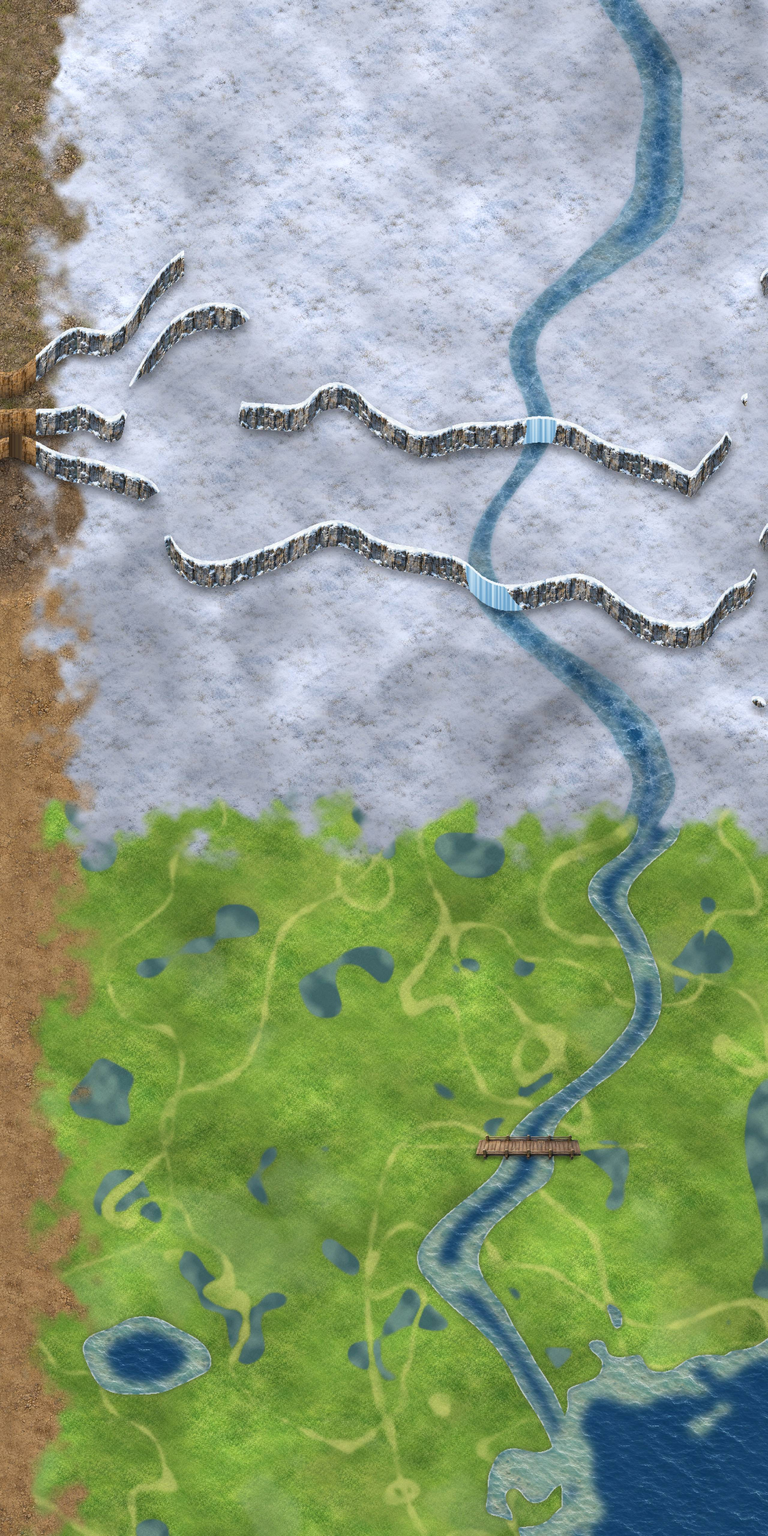
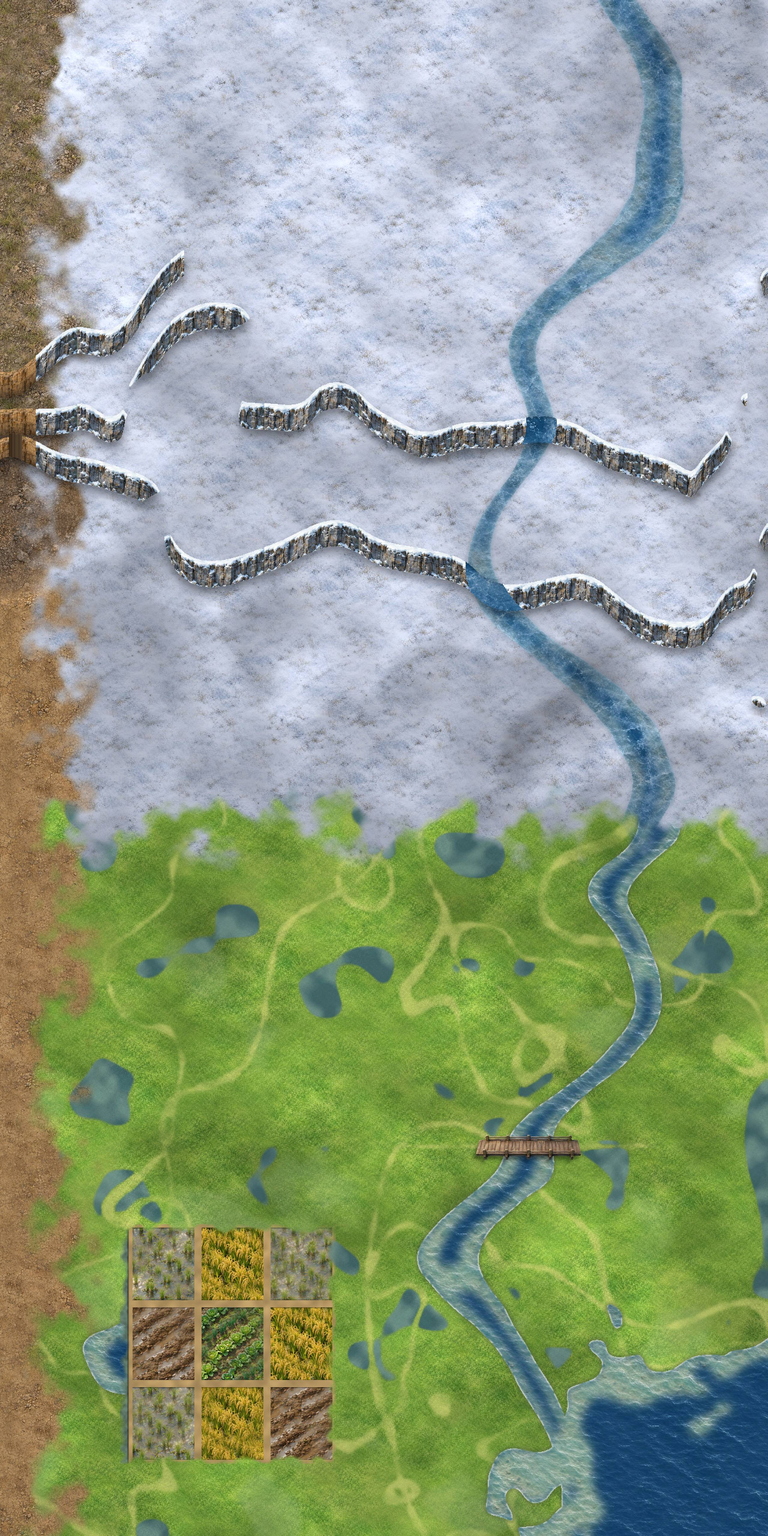
农田区、村落房屋、竹林垂柳水牛，雪原和草地各加一处村落
Claude-Session: https://claude.ai/code/session_011WrGna6yNwTfpmyp4CxMHs

Changed region(s): [[0.1562, 0.7812, 0.4375, 0.9688], [0.5938, 0.3438, 0.6875, 0.4062], [0.6875, 0.25, 0.7188, 0.3125]]

diff --git a/src/main.js b/src/main.js
@@ -127,7 +127,7 @@ function loop(now){
  contact(px,py,16);
  const items=[];
  for(const o of objs){const sx=o.x-cx,sy=o.y-cy;if(sx<-60||sx>VW+60||sy<-10||sy>VH+100)continue;
-  const inx=Math.abs(hero.x-o.x)<o.w*.4,iny=hero.y<o.y-2&&hero.y>o.y-o.h*.9;const fade=/^(broad|pine|spire|bushL|nfir|nbare|nspire|nbush)/.test(o.k);const ta=(fade&&inx&&iny)?.42:1;
+  const inx=Math.abs(hero.x-o.x)<o.w*.4,iny=hero.y<o.y-2&&hero.y>o.y-o.h*.9;const fade=/^(broad|pine|spire|bushL|nfir|nbare|nspire|nbush|fhouse|fshed|fgran|fbamb1|fwillow|fpeach)/.test(o.k);const ta=(fade&&inx&&iny)?.42:1;
   o.a+=(ta-o.a)*Math.min(1,dt*10);
   items.push({y:o.y,f:()=>{c.imageSmoothingEnabled=true;c.globalAlpha=o.a;c.drawImage(IM['s_'+o.k],sx-o.w/2,sy-o.h,o.w,o.h);c.globalAlpha=1}})}
  for(const p of pj){const sx=p.x-cx,sy=p.y-cy;items.push({y:p.y+1,f:()=>{c.strokeStyle='#eadfc2';c.lineWidth=1;c.beginPath();c.moveTo(sx-p.dx*7,sy-9-p.dy*7);c.lineTo(sx,sy-9);c.stroke();c.fillStyle='#9aa0a6';c.fillRect(sx-.7,sy-9.7,1.6,1.4);c.fillStyle='rgba(18,40,20,.25)';c.fillRect(sx-1,sy-1,2,1)}})}

diff --git a/tools/build_mountain.py b/tools/build_mountain.py
@@ -114,9 +114,11 @@ base[ys_[sn],xs2[sn]]=Cs[rows[sn],xs2[sn]%Cs.shape[1]]
 rmk=np.zeros((N,N),np.uint8); rmk[:1480,CW:]=np.load(BUILD+'snow_river.npy').astype(np.uint8)
 rmk=cv2.dilate(rmk,np.ones((1,9),np.uint8)); rmH=np.repeat(np.repeat(rmk,2,0),2,1)
 fw=rmH[ys_,xs2]>0
-icet=tile_big(seamless(load('snow_water.png')),Wd,Wd,555)
-shd=(0.9+0.1*np.clip(rows[fw]/FH,0,1)-0.12*(rows[fw]<8))[:,None]
-base[ys_[fw],xs2[fw]]=icet[ys_[fw],xs2[fw]]*shd
+if fw.any():
+    fy,fx=ys_[fw],xs2[fw]; y0_,x0_=fy.min(),fx.min()
+    icet=tile_big(seamless(load('snow_water.png')),int(fx.max()-x0_+1),int(fy.max()-y0_+1),555)
+    shd=(0.9+0.1*np.clip(rows[fw]/FH,0,1)-0.12*(rows[fw]<8))[:,None]
+    base[fy,fx]=icet[fy-y0_,fx-x0_]*shd
 del icet
 print('waterfall px',int(fw.sum()))
 del run,ys_,xs2,rows
@@ -127,6 +129,21 @@ dirt=tile_big(G[0],Wd,Wd,99)*1.14
 a=(up(ramp)*0.9)[...,None]
 base=base*(1-a)+dirt*a
 del dirt,a
+# ---------- 农田区（绿地西南，田埂分块）----------
+FX0,FX1,FY0,FY1=1480,1840,2040,2440
+S1=load('farm1.png'); fw_,fh_=(FX1-FX0)*HD,(FY1-FY0)*HD
+tl=[tile_big(seamless(S1[250:504,x0+8:x0+262]),fw_,fh_,300+i) for i,x0 in enumerate((32,338,645,951))]
+dirtc=np.median(S1[790:860,395:440].reshape(-1,3),0).astype(np.float32)
+watc=np.median(S1[700:1000,750:780].reshape(-1,3),0).astype(np.float32)
+F=np.zeros((fh_,fw_,3),np.float32)+dirtc*(1+0.05*fbm(30,401,2,fw_,fh_)[...,None])
+types=[0,1,0,2,3,1,0,1,2]; cwp,chp=(fw_-30)//3,fh_//3
+for i,t_ in enumerate(types):
+    r_,c_=divmod(i,3); x0=30+c_*cwp+12; x1=30+(c_+1)*cwp-12; y0=r_*chp+12; y1=(r_+1)*chp-12
+    F[y0:y1,x0:x1]=tl[t_][y0:y1,x0:x1]; F[y0:y0+3,x0:x1]*=0.7; F[y1-3:y1,x0:x1]*=0.8
+F[:,:28]=watc*(1+0.08*fbm(12,402,2,28,fh_)[...,None]); F[:,24:30]*=0.7
+ed=np.minimum(np.minimum(np.arange(fh_)[:,None],fh_-1-np.arange(fh_)[:,None]),np.minimum(np.arange(fw_)[None,:],fw_-1-np.arange(fw_)[None,:])).astype(np.float32)
+al=sstep((ed+8*fbm(40,403,2,fw_,fh_))/26)[...,None]
+reg=base[FY0*HD:FY1*HD,FX0*HD:FX1*HD]; base[FY0*HD:FY1*HD,FX0*HD:FX1*HD]=reg*(1-al)+F*al
 Cf=np.clip(base,0,255).astype(np.uint8); del base
 Image.fromarray(Cf[:,:2*CW]).save(OUT+'ground_w.jpg',quality=72,optimize=True)
 Image.fromarray(Cf[:,2*CW:]).save(OUT+'ground.jpg',quality=70,optimize=True)
@@ -137,6 +154,7 @@ blocked=cv2.dilate(face.astype(np.uint8),np.ones((3,3),np.uint8)).astype(bool)&~
 cc=np.array(Image.open(BUILD+'coll_center.png').convert('RGB'))      # 2560 x 1280
 C=np.zeros((N,N,3),np.uint8); C[:,CW:]=cc
 C[:,:CW+OV]=np.where((np.concatenate([np.ones((N,CW),np.float32),1-Mx],1)>0.5)[...,None],0,C[:,:CW+OV])
+C[FY0:FY1,FX0:FX1,0]=0; C[FY0:FY1,FX0:FX0+14,0]=2
 C[...,0]=np.maximum(C[...,0],blocked*1)
 Image.fromarray(C).save(OUT+'coll.png',optimize=True)
 # ---------- 物件 ----------
@@ -171,6 +189,9 @@ spr={n:to_sprite(a,hg) for n,a,hg in zip(mn,comps,mh)}
 wn=['wreed1','wreed2','wreed3','wreed4','wcat1','wcat2','wcat3','wcat4','wlily1','wlily2','wlily3','wlily4','wtuft','wstone','wlog','wpud']
 wh=[70,62,46,64,66,64,68,44,18,20,18,16,28,20,22,26]
 for n,a_,hg in zip(wn,extract('wetland.png',3000,16,313),wh): spr[n]=to_sprite(a_,hg)
+for fn_,nm_,hh_ in (('farm2.png',['fhouse1','fhouse2','fshed','fgran','fbridge','fdock','fdockboat','fboat'],[60,80,48,58,36,34,36,38]),('farm3.png',['fbamb1','fbamb2','fwillow','fpeach','fbuf1','fbuf2','fhay','ftools'],[84,54,104,64,32,30,32,18])):
+    cs_=extract(fn_,3000,8,500)
+    for n,a_,hg in zip(nm_,cs_,hh_): spr[n]=to_sprite(a_,hg)
 sc=extract('snowcliff.png',3000,12,313)[3:]
 for n,a_,hg in zip(['srock1','srock2','srock3','srub1','srub2','srub3','sicerock','sreed','sice'],sc,[46,32,20,34,26,16,26,36,14]): spr[n]=to_sprite(a_,hg)
 for n,im in spr.items(): im.save(OUT+'sprites/'+n+'.png',optimize=True)
@@ -248,10 +269,40 @@ for _ in range(80000):
         if r<0.012 and far(x,y,18): put('srock'+str(1+int(rng.integers(3))),x,y,18)
         elif r<0.03 and far(x,y,14): put('srub'+str(1+int(rng.integers(3))),x,y,14)
     elif 8<wd<50 and r<0.02 and far(x,y,16): put(['sicerock','sreed','sice'][int(rng.integers(3))],x,y,16)
+# ---------- 村落与农田 ----------
+allo=[o for o in allo if not (FX0-24<o[1]<FX1+24 and FY0-70<o[2]<FY1+24)]
+grid.clear()
+for kk,x,y in allo: grid.setdefault((int(x//CS),int(y//CS)),[]).append((x,y,8))
+FR={'fhouse1':34,'fhouse2':40,'fshed':28,'fgran':22,'fbamb1':22,'fbamb2':14,'fwillow':24,'fpeach':18,'fbuf1':16,'fbuf2':16,'fhay':12,'ftools':8}
+def okf(x,y):
+    if not(24<x<N-24 and 24<y<N-24): return False
+    if x>=CW and cc[y,x-CW,0]!=0: return False
+    return okp(x,y)
+def hamlet(cx,cy,rx,ry,items):
+    for name,cnt in items:
+        n=0
+        for _ in range(6000):
+            x=int(cx+rng.uniform(-rx,rx)); y=int(cy+rng.uniform(-ry,ry))
+            if okf(x,y) and far(x,y,FR[name]): put(name,x,y,FR[name]); n+=1
+            if n>=cnt: break
+hamlet(1660,2020,190,14,[('fhouse2',1),('fhouse1',2),('fshed',1),('fgran',1)])
+hamlet(1660,1995,200,26,[('fbamb1',2),('fbamb2',2),('fpeach',2)])
+hamlet(1660,2240,160,180,[('fbuf1',2),('fbuf2',2)])
+hamlet(1862,2240,14,180,[('fhay',3),('ftools',2)])
+for cx,cy,its in ((1650,990,[('fhouse1',2),('fhouse2',1),('fshed',1),('fgran',1),('fhay',2)]),(1600,1560,[('fhouse1',2),('fshed',1),('fhay',2),('fpeach',1)])):
+    for dx_,dy_ in ((0,0),(120,0),(-120,40),(0,90),(150,80),(-60,-80)):
+        x_,y_=cx+dx_,cy+dy_
+        if okf(x_,y_) and not nearcl[y_,x_] and wdm[y_,x_-CW]>90: hamlet(x_,y_,70,45,its); break
+n_=0
+for _ in range(60000):
+    x=int(rng.integers(CW+30,N-30)); y=int(rng.integers(1300,N-30)); xl=x-CW
+    if seaz[y,xl] or cc[y,xl,0]!=0 or not(12<drv[y,xl]<40) or not okf(x,y) or not far(x,y,24): continue
+    put('fwillow',x,y,24); n_+=1
+    if n_>=7: break
 print('objs',len(allo))
 size={**cw['size'],**sizes}
 cr={**cw['coll_r'],'mpine1':5,'mpine2':5,'mdead':5,'mrock':8}
-cr.update({'srock1':14,'srock2':10,'srock3':6,'sicerock':8})
+cr.update({'fhouse1':26,'fhouse2':30,'fshed':20,'fgran':14,'fbamb1':8,'fbamb2':6,'fwillow':6,'fpeach':5,'fbuf1':10,'fbuf2':10,'fhay':8,'srock1':14,'srock2':10,'srock3':6,'sicerock':8})
 for k_ in ('bushL1','bushL2'): cr.pop(k_,None)
 b=cw['bridge']; bw=b['walk']
 wj={'WW':N,'WH':N,'HD':HD,'size':size,'coll_r':cr,'objs':allo,'bridge':{'x':b['x']+CW,'y':b['y'],'walk':[bw[0]+CW,bw[1],bw[2]+CW,bw[3]]},
